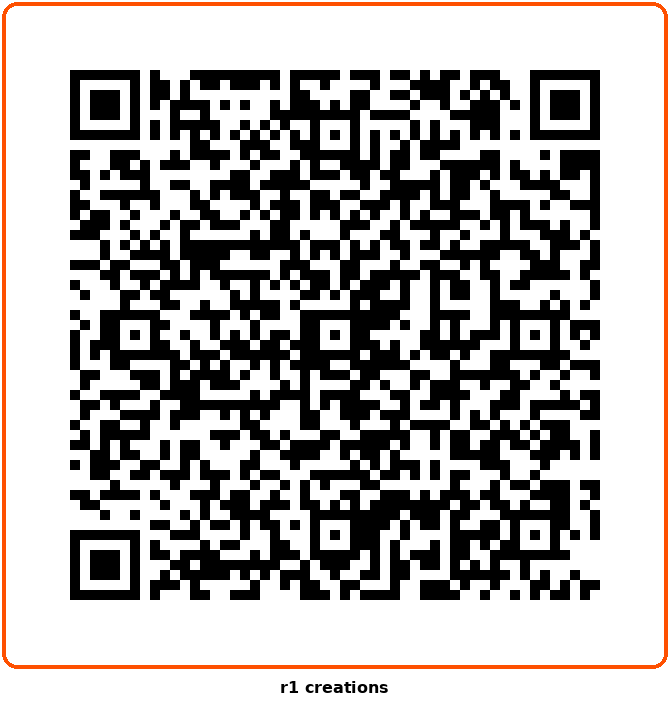
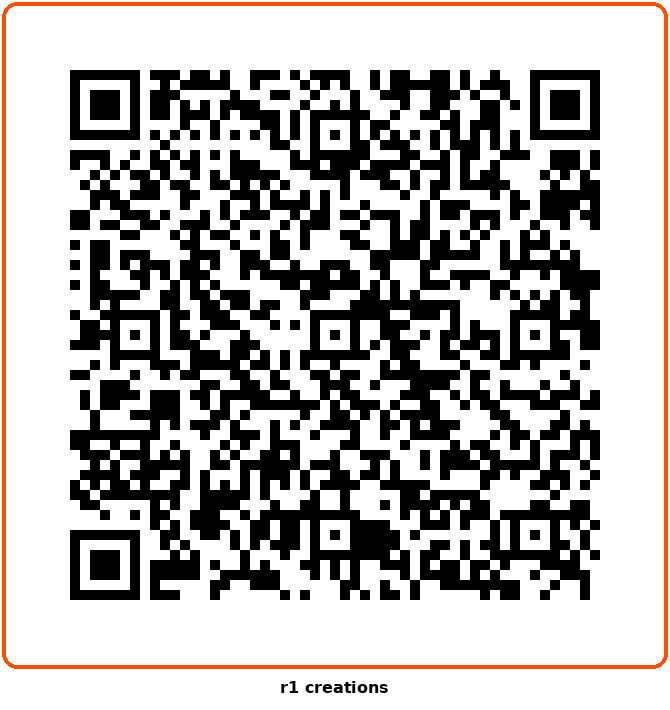
v1.2.3 — rename creation to R1 MLB LITE, regenerate QR code

Changed region(s): [[0.0896, 0.093, 0.8955, 0.8676]]

diff --git a/index.html b/index.html
@@ -3,7 +3,7 @@
 <head>
 <meta charset="UTF-8">
 <meta name="viewport" content="width=240, initial-scale=1.0, maximum-scale=1.0, user-scalable=no">
-<title>MLB Live — R1</title>
+<title>R1 MLB LITE</title>
 <link rel="preconnect" href="https://fonts.googleapis.com">
 <link rel="preconnect" href="https://fonts.gstatic.com" crossorigin>
 <link href="https://fonts.googleapis.com/css2?family=JetBrains+Mono:wght@400;600;700&family=Inter:wght@400;500;600;700&display=swap" rel="stylesheet">
